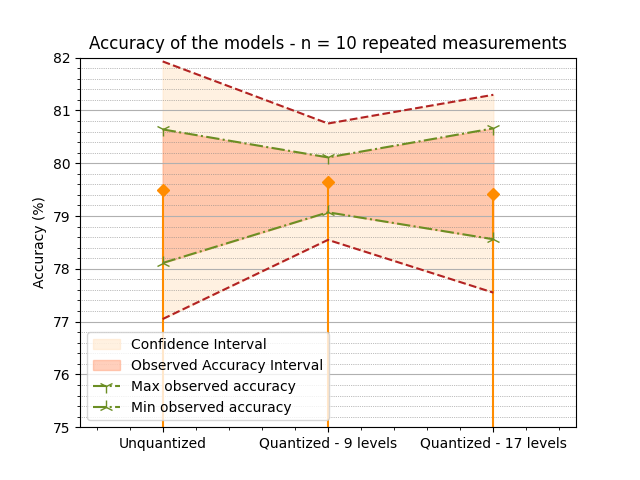
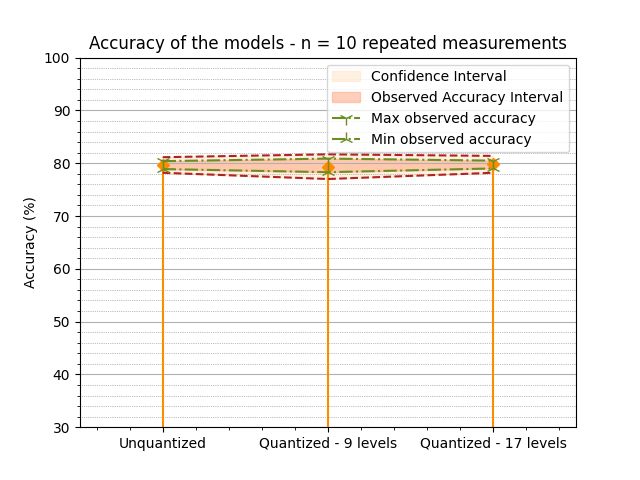
updates for simulation run

diff --git a/sandbox/cuda/resnet.py b/sandbox/cuda/resnet.py
@@ -294,31 +294,31 @@ class IdealPreset(InferenceRPUConfig):
         )
     )
 
-    # forward: IOParameters = field(
-    #     default_factory= lambda:PresetIOParameters(
-    #         is_perfect=True,
-    #     )
-    # )
+    forward: IOParameters = field(
+        default_factory= lambda:PresetIOParameters(
+            is_perfect=True,
+        )
+    )
 
     # ////////////////////////////////////////////////////////////////////////////////////////////////
     # OSS: As soon as the resolution for input and output is set to a value different from 0,
     # the input calibration step become mandatory
     # ////////////////////////////////////////////////////////////////////////////////////////////////
     
-    forward: IOParameters = field(
-        default_factory=lambda: PresetIOParameters(
-            inp_res=254.0,
-            out_res=254.0,
-            bound_management=BoundManagementType.NONE,
-            noise_management=NoiseManagementType.CONSTANT,
-            nm_thres=1.0,
-            # w_noise=0.0175,
-            w_noise_type=WeightNoiseType.NONE,
-            ir_drop=1.0,
-            out_noise=0.04,
-            out_bound=10.0,
-        )
-    )
+    # forward: IOParameters = field(
+    #     default_factory=lambda: PresetIOParameters(
+    #         inp_res=254.0,
+    #         out_res=254.0,
+    #         bound_management=BoundManagementType.NONE,
+    #         noise_management=NoiseManagementType.CONSTANT,
+    #         nm_thres=1.0,
+    #         # w_noise=0.0175,
+    #         w_noise_type=WeightNoiseType.NONE,
+    #         ir_drop=1.0,
+    #         out_noise=0.04,
+    #         out_bound=10.0,
+    #     )
+    # )
 
     backward: IOParameters = field(
         default_factory= lambda:PresetIOParameters(
@@ -328,23 +328,23 @@ class IdealPreset(InferenceRPUConfig):
 
     noise_model: BaseNoiseModel = field(default_factory=NullNoiseModel)
 
-    pre_post: PrePostProcessingParameter = field(
-        default_factory=lambda: PrePostProcessingParameter(
-            # InputRangeParameter used for dynamic input range learning
-            input_range=InputRangeParameter(
-                enable=True,
-                init_value=3.0,
-                init_from_data=100,
-                init_std_alpha=3.0,
-                decay=0.001,
-                input_min_percentage=0.95,
-                output_min_percentage=0.95,
-                manage_output_clipping=False,
-                gradient_scale=1.0,
-                gradient_relative=True,
-            )
-        )
-    )
+    # pre_post: PrePostProcessingParameter = field(
+    #     default_factory=lambda: PrePostProcessingParameter(
+    #         # InputRangeParameter used for dynamic input range learning
+    #         input_range=InputRangeParameter(
+    #             enable=True,
+    #             init_value=3.0,
+    #             init_from_data=100,
+    #             init_std_alpha=3.0,
+    #             decay=0.001,
+    #             input_min_percentage=0.95,
+    #             output_min_percentage=0.95,
+    #             manage_output_clipping=False,
+    #             gradient_scale=1.0,
+    #             gradient_relative=True,
+    #         )
+    #     )
+    # )
 
 
 
@@ -574,11 +574,11 @@ if __name__ == '__main__':
                 
                 # Calibrate input ranges
                 dataloader=Sampler(get_test_loader(), device)
-                calibrate_input_ranges(
-                model=model_i,
-                calibration_type=InputRangeCalibrationType.CACHE_QUANTILE,
-                dataloader=dataloader,
-                )
+                # calibrate_input_ranges(
+                # model=model_i,
+                # calibration_type=InputRangeCalibrationType.CACHE_QUANTILE,
+                # dataloader=dataloader,
+                # )
                 
                 # Compute the accuracies
                 inference_accuracy_values[t_id, j, i] = evaluate_model(
@@ -668,11 +668,11 @@ if __name__ == '__main__':
 
                 # Calibrate input ranges
                 dataloader = Sampler(get_test_loader(), device)
-                calibrate_input_ranges(
-                model=model_fitted,
-                calibration_type=InputRangeCalibrationType.CACHE_QUANTILE,
-                dataloader=dataloader,
-                )
+                # calibrate_input_ranges(
+                # model=model_fitted,
+                # calibration_type=InputRangeCalibrationType.CACHE_QUANTILE,
+                # dataloader=dataloader,
+                # )
 
                 # Then evaluate the model
                 fitted_models_accuracy[t_id, j, i] = evaluate_model(model_fitted, get_test_loader(), device)
